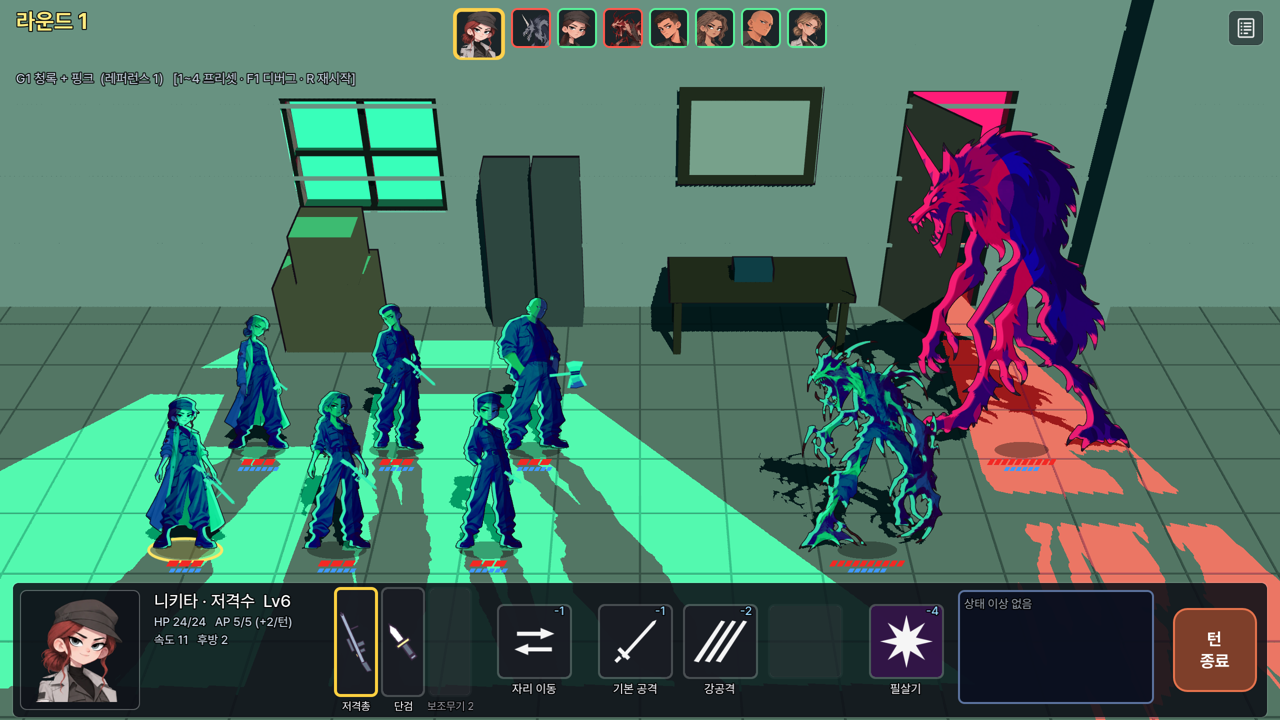
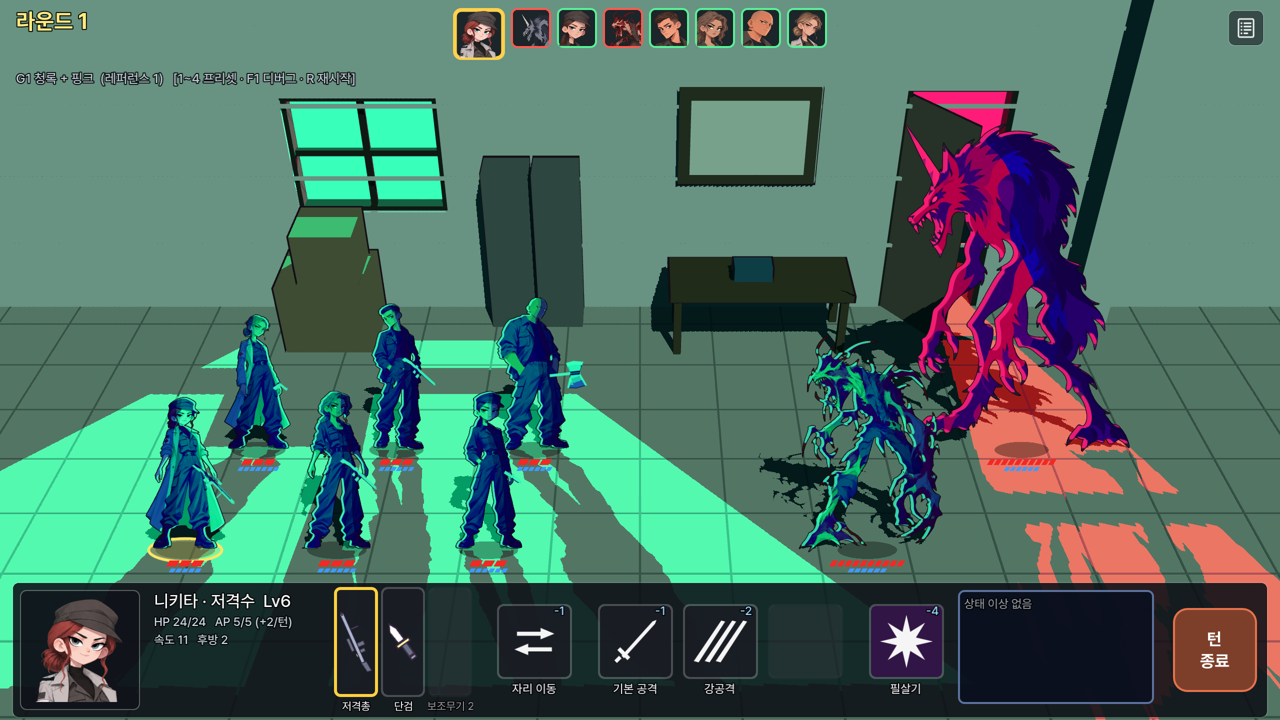
외곽 림 두께 30% 줄임 (20px → 14px, 원화 760px 기준)
Claude-Session: https://claude.ai/code/session_014aytw3hj7boqn3SZ5GP5ti

diff --git a/docs/design/PROTOTYPE_GDD_v1_0.md b/docs/design/PROTOTYPE_GDD_v1_0.md
@@ -4,11 +4,11 @@
 
 ## 0. 현재 구현 반영 (변경될 때마다 갱신)
 > 아래는 원 기획 이후 사용자 결정으로 바뀐 내용. 상세 결정 이력은 `00_decision_log_v1_0.md`, 아트 규격은 `../ui_art_spec.md`.
-> 마지막 갱신: 2026-10-26 (네온 칠을 전 캐릭터 기본으로, 외곽 림 굵고 매끄럽게)
+> 마지막 갱신: 2026-10-26 (외곽 림 두께 30% 줄임: 14px)
 
 - **표현**: 캐릭터 2D **스프라이트 프레임 애니메이션**(**스프라이트 시트** `assets/characters/<id>/<동작>_<칸 수>.png`, 사용자가 제작 — 시트 없는 동작은 기본 그림 한 장. 현재: 니키타 idle·walk·hit·attack, 키라 idle·walk·hit·attack, 하나 idle·walk·hit·attack, 단·이선·앨마 idle(기본 그림 숨쉬기)) + 배경 3D(실광원·그림자). Skeleton2D 리그·3D 캐릭터 전환은 제거.
   칠 방식: **전 캐릭터 네온 칠**(선화는 원화 그대로, 면은 원화 밝기대로 조명색으로 덮음 — 어두운 면은 깊은 보라, 밝은 면은 조명색). `character.json` `"style": "classic"` 이면 예전 셀 칠, `"neon_gradient"` 0~1 = 몸 위→아래 색상 그라데이션(기본 끔).
-  외곽 림(빛 반대쪽 가장자리 선): 그림 실루엣에서 셰이더가 직접 그림 — 원화 760px 기준 20px 두께, 윤곽을 따라 매끄럽게(계단 없음), 다리 사이 같은 안쪽 가장자리에도.
+  외곽 림(빛 반대쪽 가장자리 선): 그림 실루엣에서 셰이더가 직접 그림 — 원화 760px 기준 14px 두께, 윤곽을 따라 매끄럽게(계단 없음), 다리 사이 같은 안쪽 가장자리에도.
 - **카메라**: 뒤로 물러나 40° 내려다보는 원근, 전투 내내 전체 구도 고정(차례 줌 없음). `battle_2d.tscn` → View 노드 인스펙터에서 각도·거리·화각·바라보는 점·화면 위치 조절.
 - **편성 (6대2)**: 사람 캐릭터 6인 전원 아군 — 전방 단·키라 / 중앙 이선·하나 / 후방 앨마·니키타.
   적은 **괴물만**: 구울(2.4m, **전방+중앙 두 칸 차지**), 늑대(4m, 후방 한 칸). 슬라임은 제외.

diff --git a/README.md b/README.md
@@ -240,12 +240,13 @@ git 이 없는 설치(zip)는 같은 설치 명령을 다시 실행하면 최신
 ### 네온 칠 (전 캐릭터 기본)
 모든 캐릭터를 **선화는 원화 그대로, 면은 조명색으로 쨍하게** 칠합니다 (레퍼런스: `docs/screenshots/ref_neon.png`).
 - 원화 밝기 → 조명색 명도. 검정 옷도 바닥 밝기(`neon_floor`)까지 올라가 깊은 보라·남색이 되고, 흰 코트는 흰빛 섞인 조명색. 선은 그보다 어두운 원화 색이라 묻히지 않음.
-- **외곽 림**(빛 반대쪽 가장자리의 보조광 선): 셰이더가 그림 실루엣에서 직접 그림 — 두께 `rim_px`(원화 키 760px 기준 20px), 실루엣을 따라 매끄럽게(계단 없음), 다리 사이 같은 안쪽 가장자리에도 생김.
+- **외곽 림**(빛 반대쪽 가장자리의 보조광 선): 셰이더가 그림 실루엣에서 직접 그림 — 두께 `rim_px`(원화 키 760px 기준 14px), 실루엣을 따라 매끄럽게(계단 없음), 다리 사이 같은 안쪽 가장자리에도 생김.
 - `character.json` `"style": "classic"` → 예전 셀 칠. `"neon_gradient": 1` → 몸 위(빛 쪽)에서 아래로 조명 색상이 푸른 보라 쪽으로 넘어가는 그라데이션 (기본 끔).
 - 실행 옵션으로 비교: `--char_style=neon|classic`, `--char_gradient=0|1` (모든 캐릭터에 강제). 세기는 셰이더 `neon_*`·`rim_px` 값.
 - 기지 확대 촬영: `--base_focus=npc_nikita --base_zoom=3.6 --base_focus_y=0.9`.
 
 ![외곽 림: 전(왼쪽)·후 — 굵고 매끄럽게](docs/screenshots/neon_rim.png)
+![외곽 림 20px(왼쪽) → 14px(지금)](docs/screenshots/neon_rim_thin.png)
 ![전투 아군 — 예전 셀 칠(위)·네온(아래)](docs/screenshots/neon_battle_all.png)
 ![원본·기존 칠·네온·네온+그라데이션 (림 바꾸기 전)](docs/screenshots/neon_base.png)
 ![얼굴 확대 — 선화 유지](docs/screenshots/neon_lines.png)

diff --git a/docs/design/00_decision_log_v1_0.md b/docs/design/00_decision_log_v1_0.md
@@ -112,7 +112,7 @@
 
 - (2026-10-26, 사용자 지정) **네온 칠 확정** — 전 캐릭터 기본(그라데이션은 끔, 옵션으로 남김). 외곽 림(민트색 등 보조광 선)은 **더 넓고 굵게, 계단 없이 매끄럽게**.
   - 림을 조명 마스크의 '행마다 왼쪽 끝 5px' 대신 셰이더가 실루엣(알파)을 빛 반대쪽으로 밀어 12점 표본으로 흐려 문턱값을 둔 띠로 그림 → 윤곽을 따라 부드러움, 마스크 다시 만들 필요 없음.
-  - [임시] 두께 = 원화 키 760px 기준 20px(약 2.6%), 네온일 때 림 세기 0.92, 방향 = 빛 반대쪽 + 살짝 위(어깨·모자 윗선).
+  - [임시] 두께 = 원화 키 760px 기준 20px → 사용자 요청으로 30% 줄여 14px(약 1.8%), 네온일 때 림 세기 0.92, 방향 = 빛 반대쪽 + 살짝 위(어깨·모자 윗선).
 
 ## 검증 중 (확정 아님)
 - **배경 3D + 캐릭터 2D 하이브리드** (2026-10-25 적용): 배경은 3D 방을 2D 카메라와 같은 투영으로 렌더, 캐릭터 라이팅은 실제 광원 위치 기준
